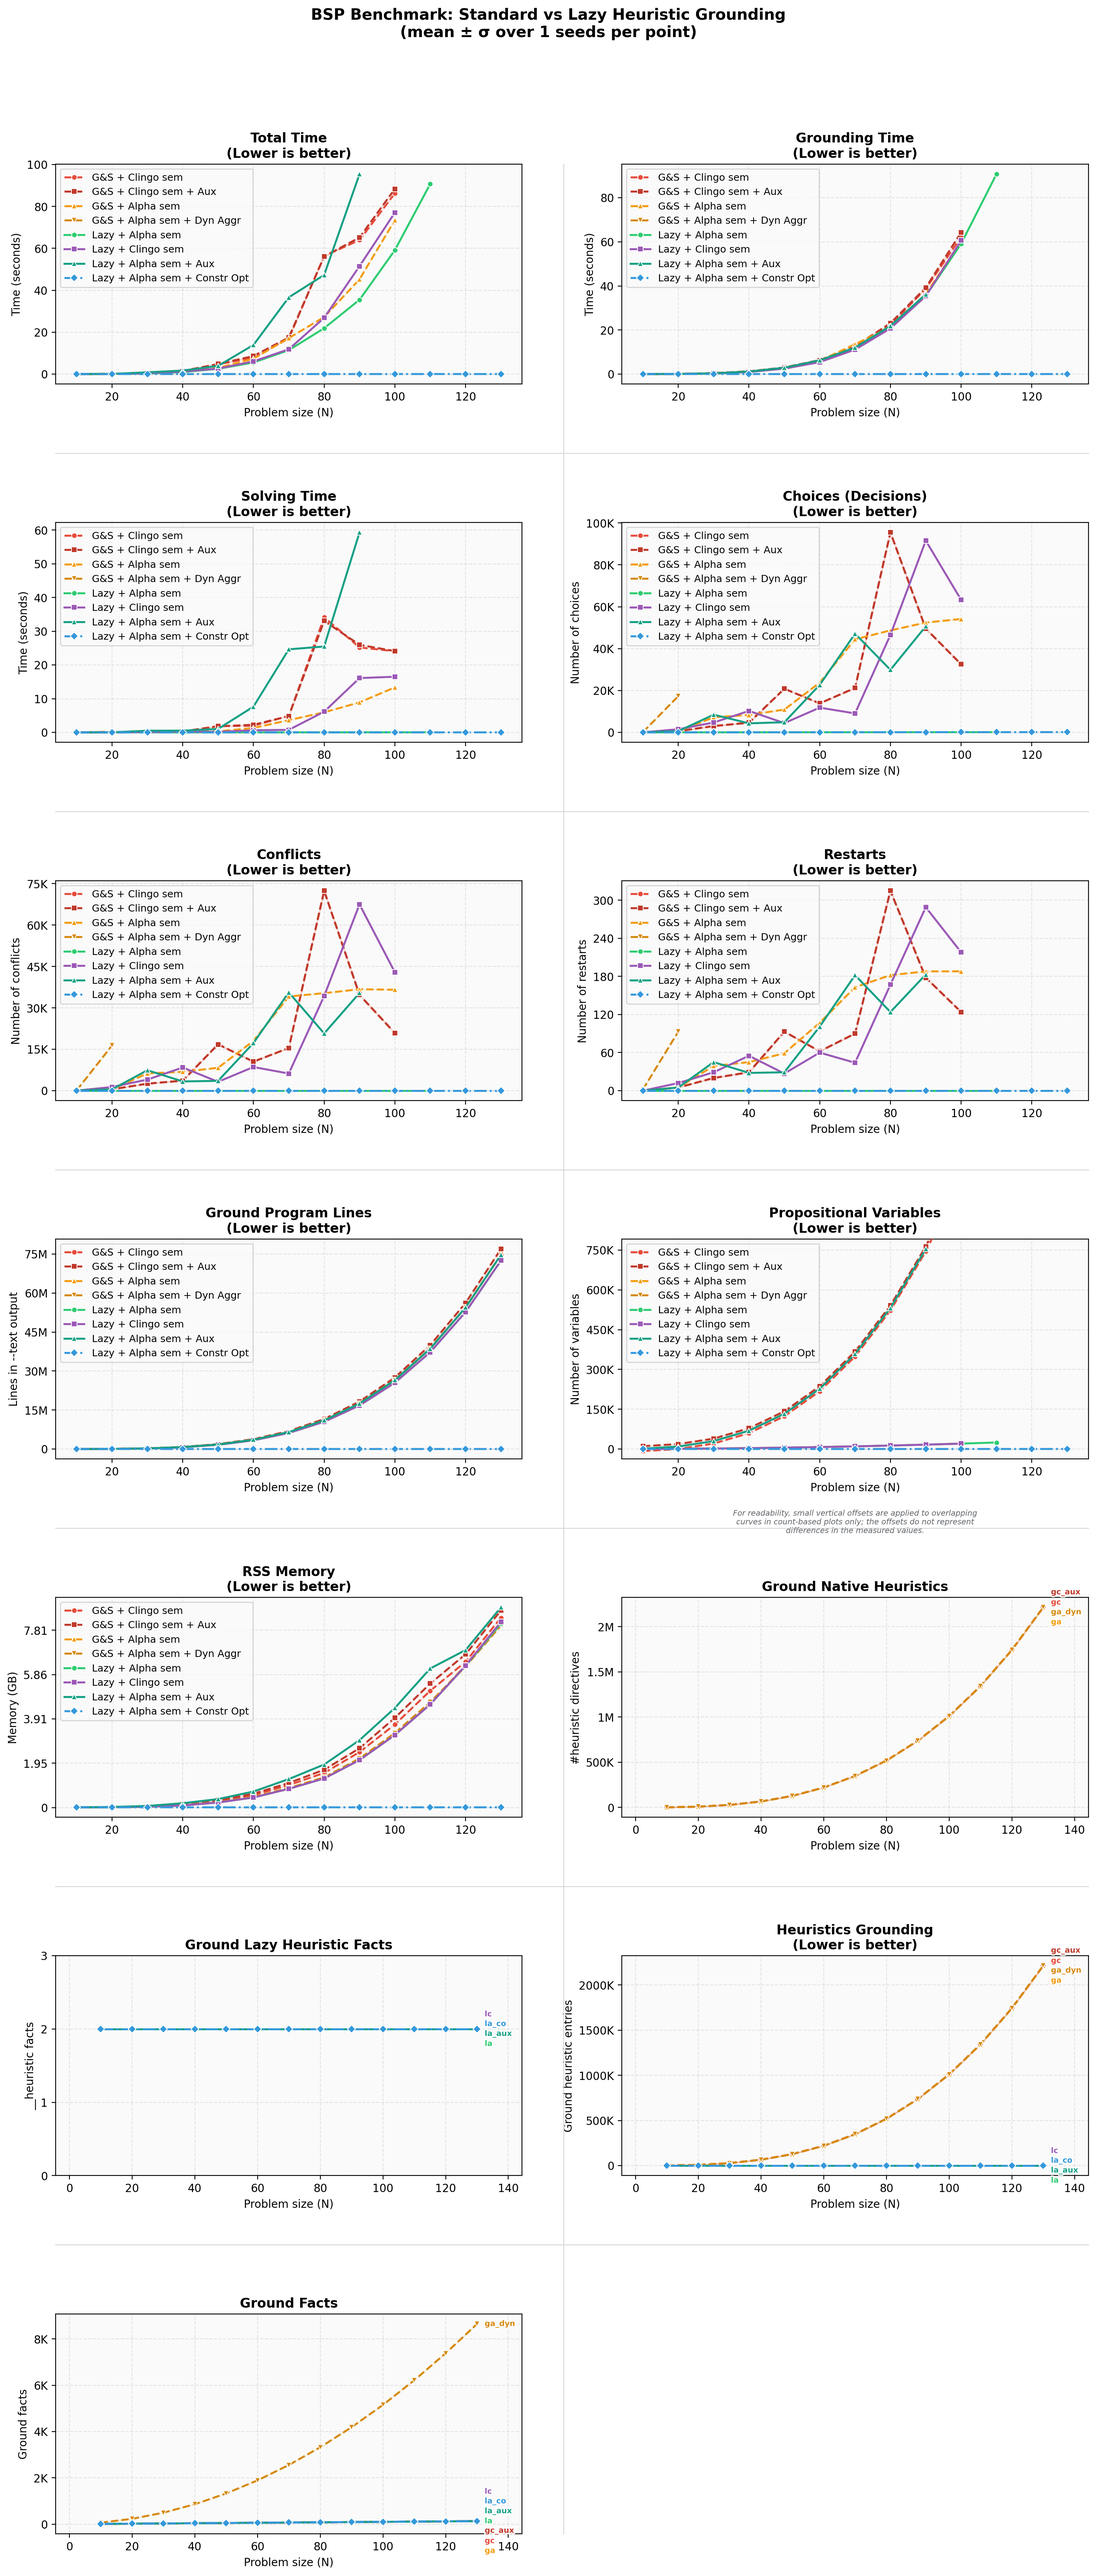
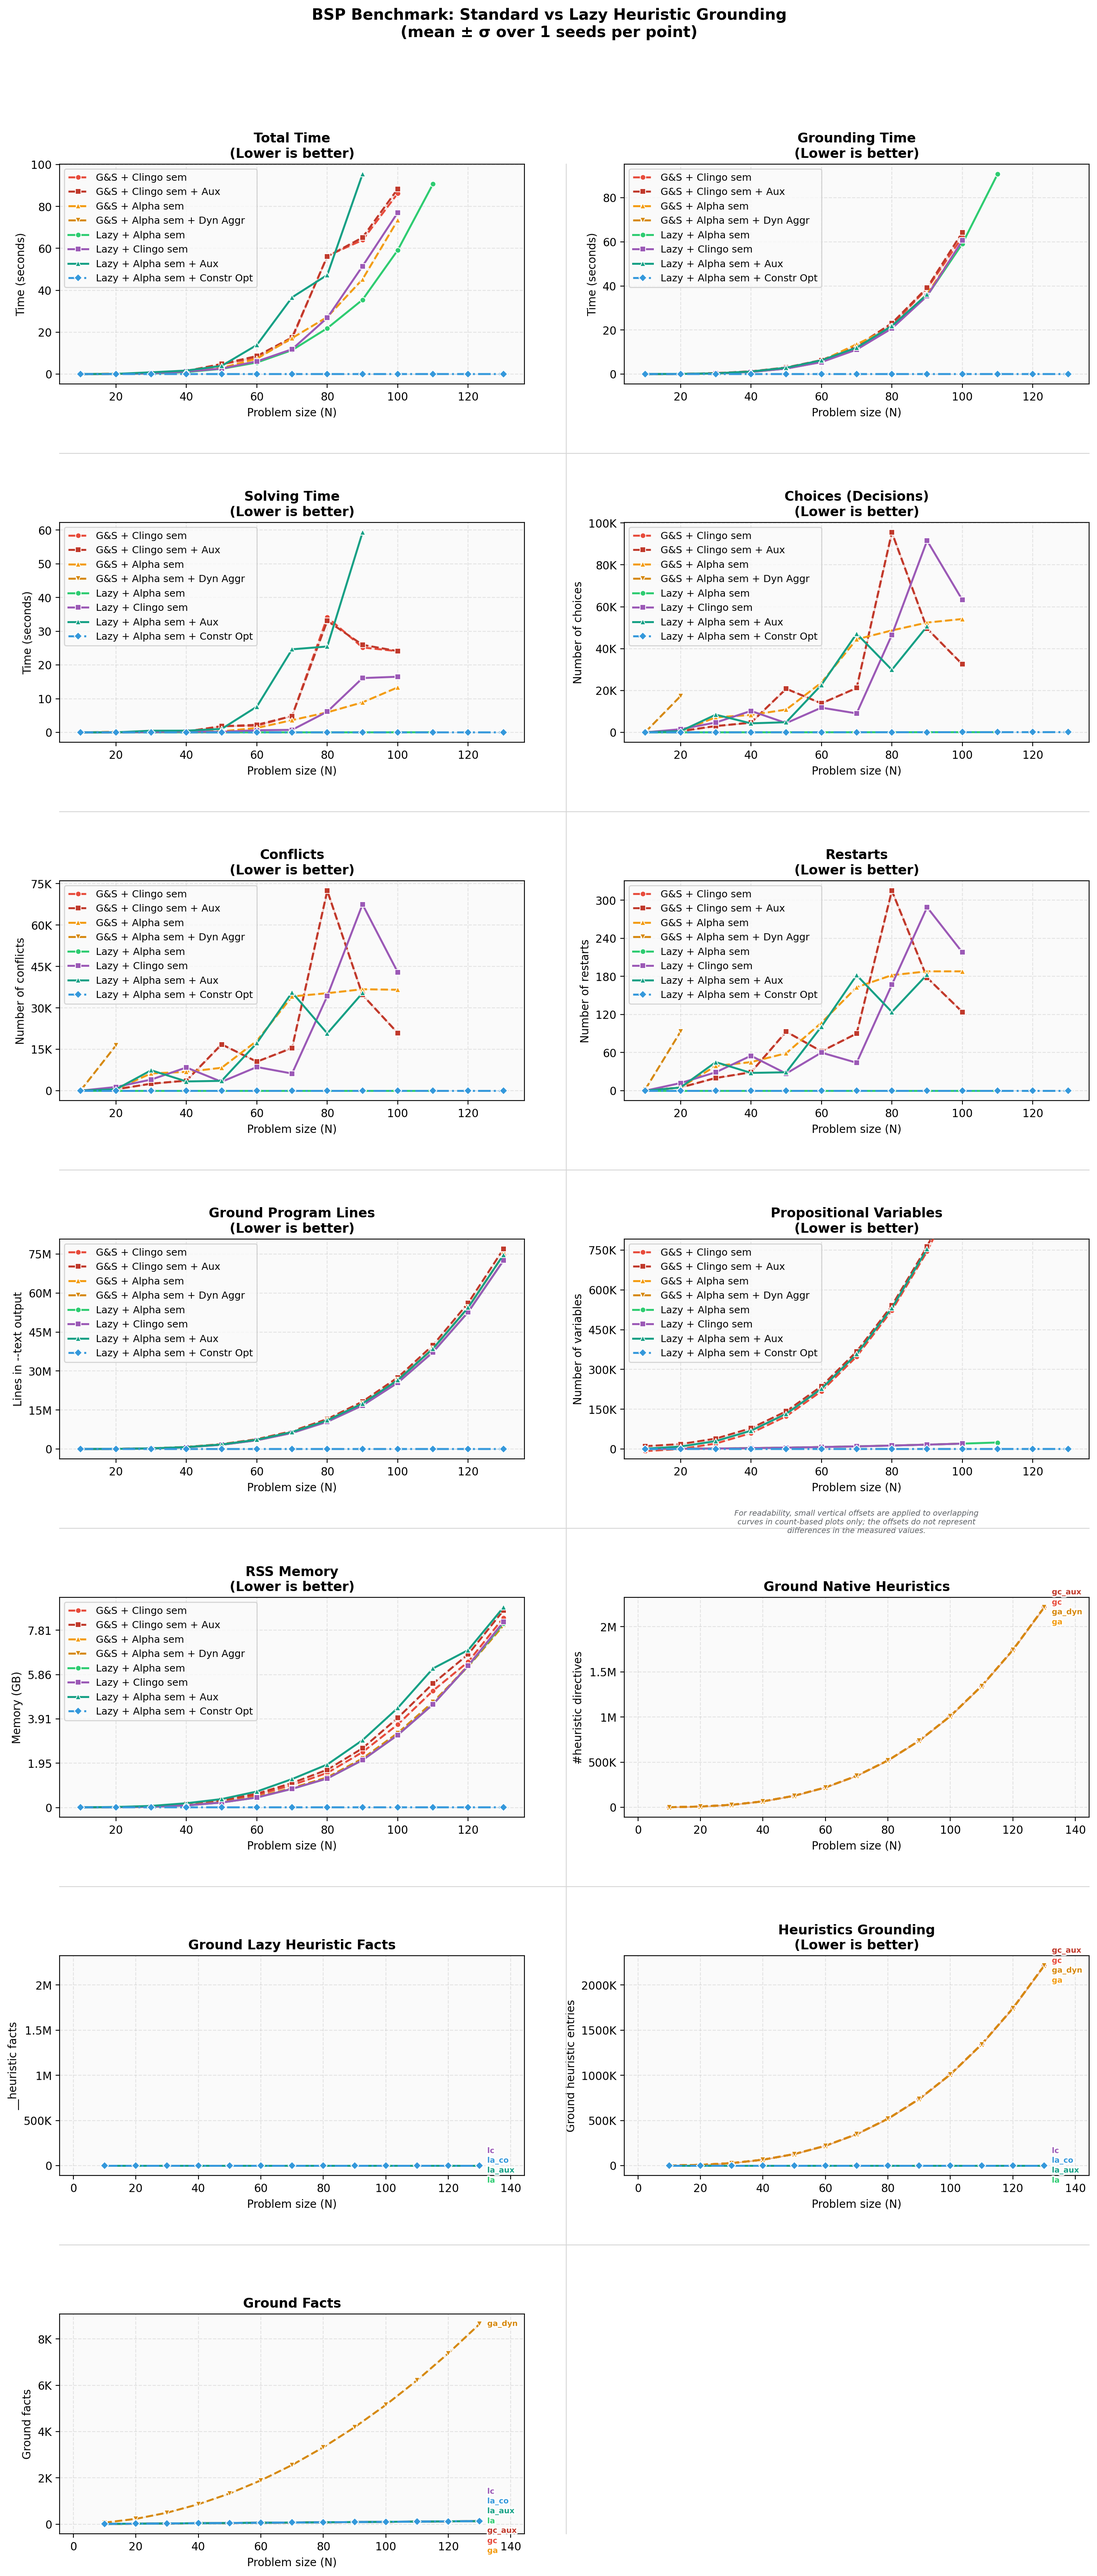
modifiche ai grafici

diff --git a/test_folder/tools/gen_graphs.py b/test_folder/tools/gen_graphs.py
@@ -462,6 +462,9 @@ ENDPOINT_LABEL_METRICS = {
     "ground_facts",
 }
 ENDPOINT_LABEL_MIN_GAP_POINTS = 9.0
+SHARED_Y_SCALE_METRIC_GROUPS = (
+    ("ground_heuristics", "ground_lazy_heuristic_facts"),
+)
 VARIANT_LINESTYLES = [
     "-",
     "--",
@@ -620,6 +623,52 @@ def _include_variant_for_metric(stats: dict, variant: str, metric: str) -> bool:
             _has_positive_metric(stats, variant, "ground_lazy_heuristic_facts")
         )
     return True
+
+
+def _shared_y_scale_limits(stats: dict, theme: dict, metrics) -> tuple | None:
+
+    import math
+
+    min_value = 0.0
+    max_value = 0.0
+    has_value = False
+
+    for metric in metrics:
+        for variant in _ordered_variants(stats, theme):
+            if not _include_variant_for_metric(stats, variant, metric):
+                continue
+            data = stats.get(variant, {}).get(metric)
+            if not data:
+                continue
+
+            means = data.get("mean", [])
+            deviations = data.get("gc", [0.0] * len(means))
+            for mean, deviation in zip(means, deviations):
+                if not math.isfinite(float(mean)):
+                    continue
+                deviation = deviation if math.isfinite(float(deviation)) else 0.0
+                min_value = min(min_value, float(mean) - float(deviation))
+                max_value = max(max_value, float(mean) + float(deviation))
+                has_value = True
+
+    if not has_value:
+        return None
+
+    span = max_value - min_value
+    pad = max(span * 0.05, max_value * 0.02, 1.0)
+    return min(0.0, min_value - pad), max_value + pad
+
+
+def _shared_y_scale_limits_by_metric(stats: dict, theme: dict) -> dict:
+
+    limits = {}
+    for metrics in SHARED_Y_SCALE_METRIC_GROUPS:
+        metric_limits = _shared_y_scale_limits(stats, theme, metrics)
+        if metric_limits is None:
+            continue
+        for metric in metrics:
+            limits[metric] = metric_limits
+    return limits
 
 
 def _endpoint_label_offsets(ax, series) -> dict:
@@ -1157,6 +1206,7 @@ def generate_graphs(
     axes_flat = axes.flatten()
 
     variants = _ordered_variants(stats, theme)
+    shared_metric_ylims = _shared_y_scale_limits_by_metric(stats, theme)
 
     for idx, config in enumerate(PLOT_CONFIGS):
         ax = axes_flat[idx]
@@ -1204,7 +1254,10 @@ def generate_graphs(
                             alpha=VARIANT_FILL_ALPHA, color=color,
                             transform=transform, zorder=2)
 
-        _expand_flat_integer_axis(ax, series, metric)
+        if metric in shared_metric_ylims:
+            ax.set_ylim(*shared_metric_ylims[metric])
+        else:
+            _expand_flat_integer_axis(ax, series, metric)
         if metric in ENDPOINT_LABEL_METRICS:
             ax.margins(x=0.12)
             _annotate_metric_endpoints(ax, series, theme, metric)
@@ -1323,6 +1376,7 @@ def _generate_single_chart(stats, graphs_dir, metric, title, ylabel, description
 
     fig, ax = plt.subplots(figsize=(8, 5))
     variants = _ordered_variants(stats, theme)
+    shared_metric_ylims = _shared_y_scale_limits_by_metric(stats, theme)
     has_data = False
     series = []
 
@@ -1365,7 +1419,10 @@ def _generate_single_chart(stats, graphs_dir, metric, title, ylabel, description
                         alpha=VARIANT_FILL_ALPHA, color=color,
                         transform=transform, zorder=2)
 
-    _expand_flat_integer_axis(ax, series, metric)
+    if metric in shared_metric_ylims:
+        ax.set_ylim(*shared_metric_ylims[metric])
+    else:
+        _expand_flat_integer_axis(ax, series, metric)
     if metric in ENDPOINT_LABEL_METRICS:
         ax.margins(x=0.12)
         _annotate_metric_endpoints(ax, series, theme, metric)
